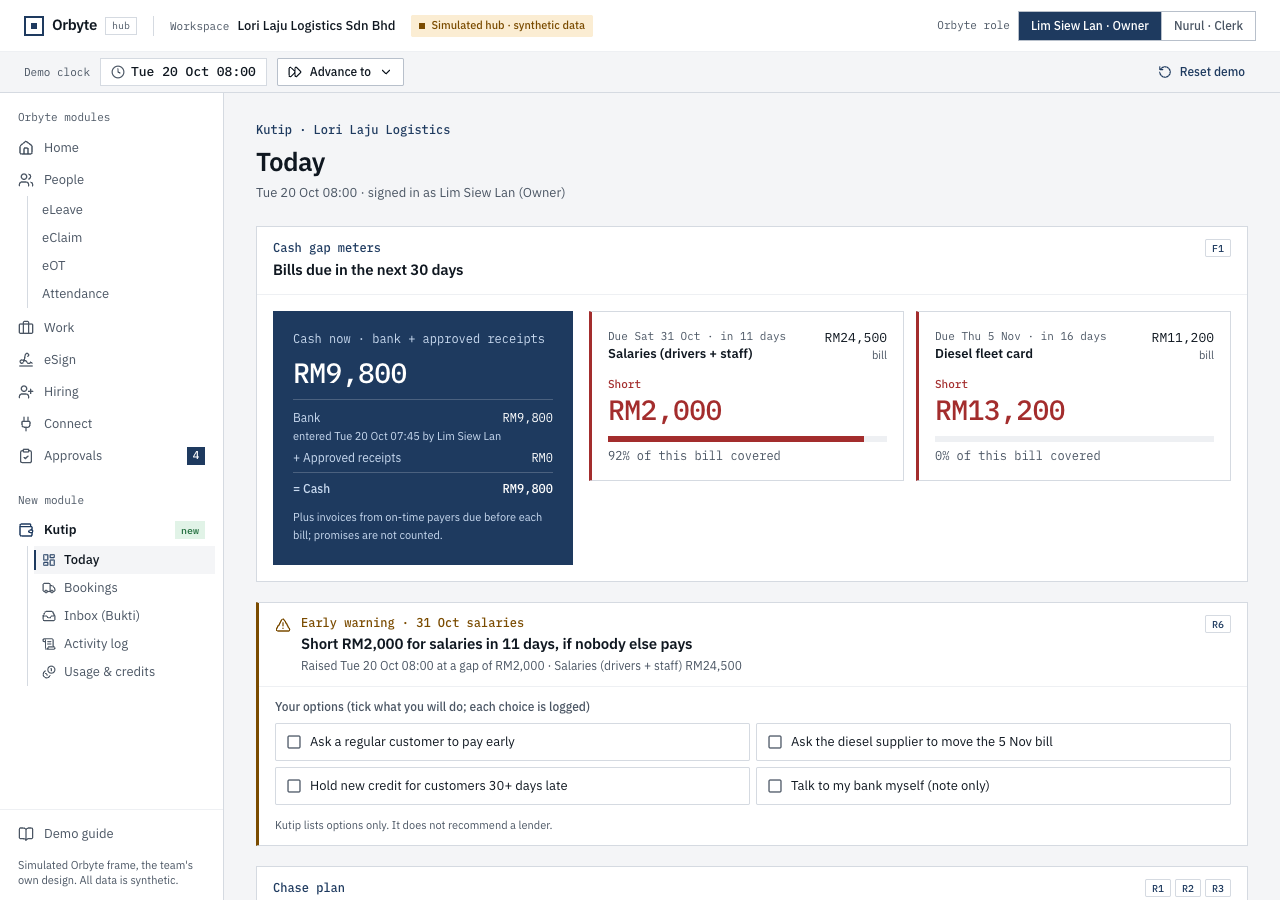
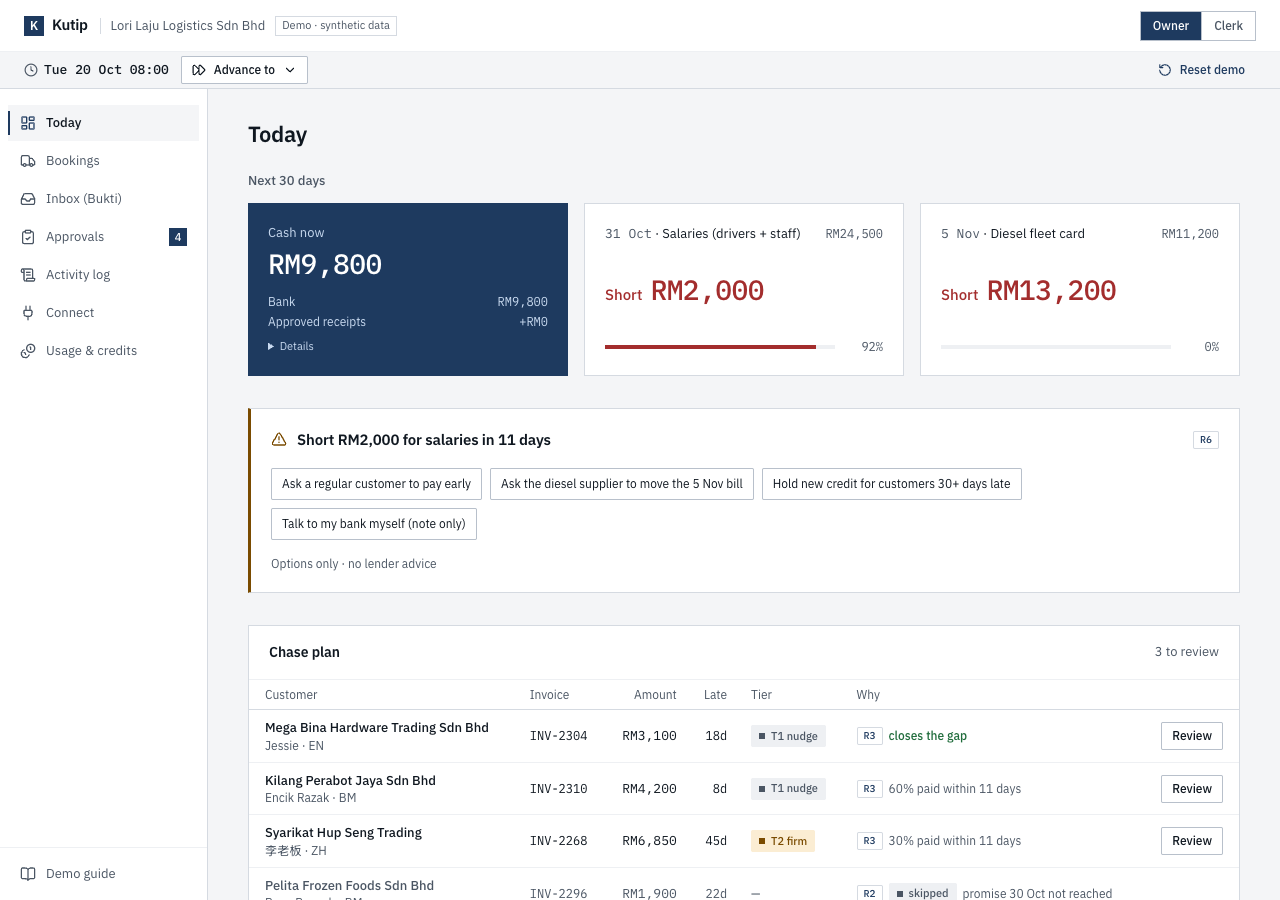
Docs: screenshots of the simplified UI; record the no-Orbyte-in-app decision

diff --git a/docs/HANDOFF.md b/docs/HANDOFF.md
@@ -13,6 +13,12 @@ Written 25 Oct 2026, 02:50 MYT; updated 03:40 MYT. For the next agent or teammat
 | **Status (03:40)** | Section 2 work is merged, plus Ledger pass 2 and a sweep of the remaining files. 158 tests pass; tsc, eslint and `next build` are clean. A scripted browser walk of the 8-step Demo guide (headless Chrome, Owner and Clerk) passes 36 of 36 checks against the section 4 numbers, locally and on the live URL: no Clerk-visible cash or gap figure on any page, no console errors, no browser dialogs, no page-level sideways scroll at 390px |
 | **Hosting** | Live on Vercel: **https://kutip-virid.vercel.app** (project `kutip`, scope **`ckayzs-projects`**; never use `predictefys-projects`). `web/vercel.json` pins the Next.js framework (the project was created with the 'Other' preset, which served 404). Deploy with `cd web && vercel deploy --prod --scope ckayzs-projects`. Replit: not tested; whether the judges require it is still unconfirmed |
 
+## 1a. Decisions after 03:40 (user)
+
+- **No Orbyte or other company names in the app.** The UI is Kutip only: no Orbyte wordmark, no other-module sidebar (eLeave, eClaim, …), no "Orbyte Connect / credit wallet / audit trail" wording, no competitor names (the Bukku price line on Usage is gone). The Orbyte fit (brief must-have 5) is argued only in the proposal, pitch and judge Q&A. Do not add Orbyte branding back to the app.
+- **Fewer words.** A simplify pass cut helper sentences, mono eyebrows and nested cards on every page; details sit in tooltips or `<details>`. Rule IDs stay on every decision (NFR-1). After it, the browser walk still passes 36 of 36 locally and on the live URL (`main` at `65d4576`).
+- The browser walk scripts live outside the repo (the agent's scratchpad); they drive headless Chrome with `playwright-core`. The nav landmark is now `nav[aria-label="Kutip"]`.
+
 ## 2. Builder work (done, merged 25 Oct 03:10–03:30)
 
 All four items below were rebuilt in a fresh clone and merged into `main`. Builder A's role choices: invoice and bank imports are Owner or Clerk (the Clerk sees credit lines only); bank balance and reject claim are Owner only; snooze, dispute and call follow the approve tier rules. The seed state `version` is now 2.
